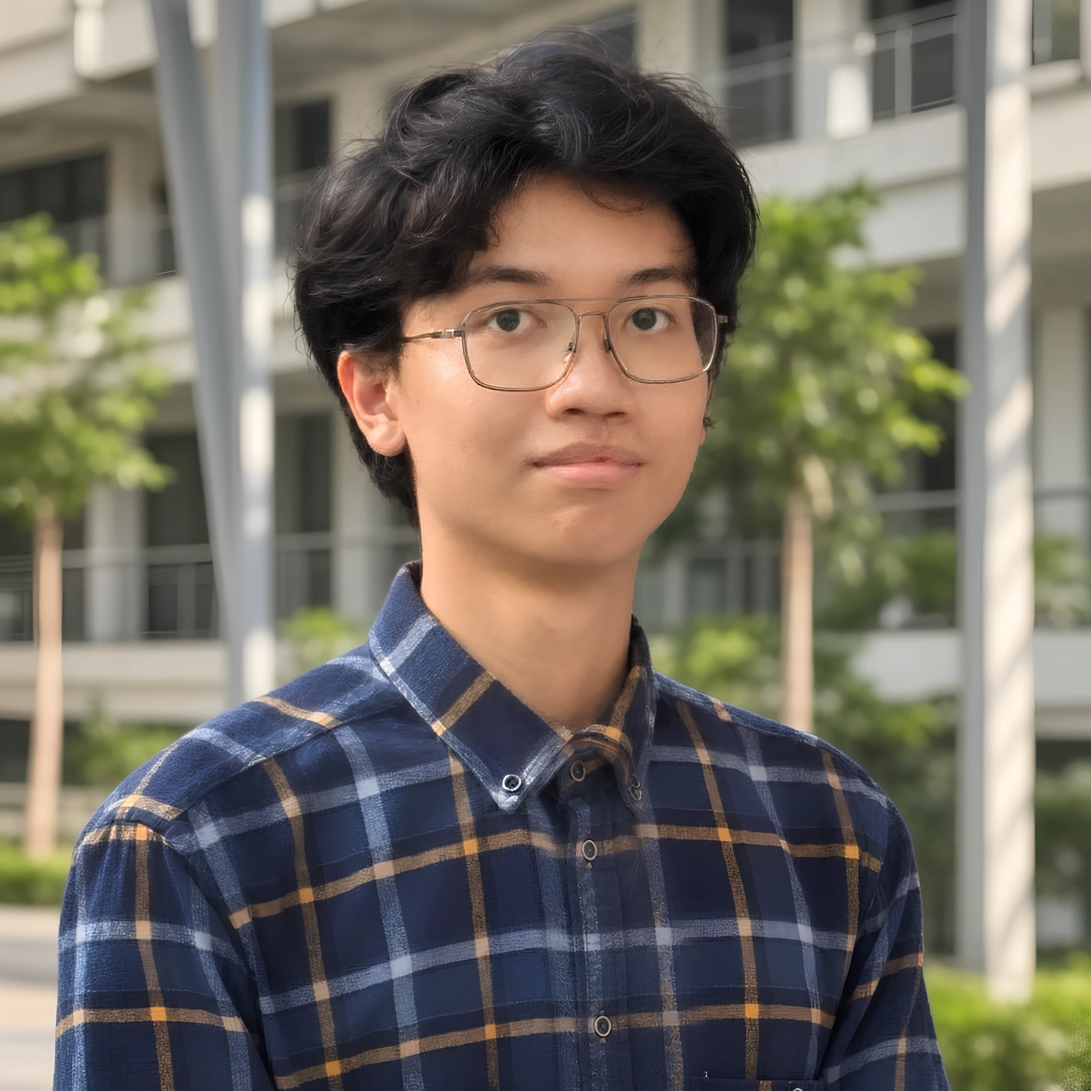
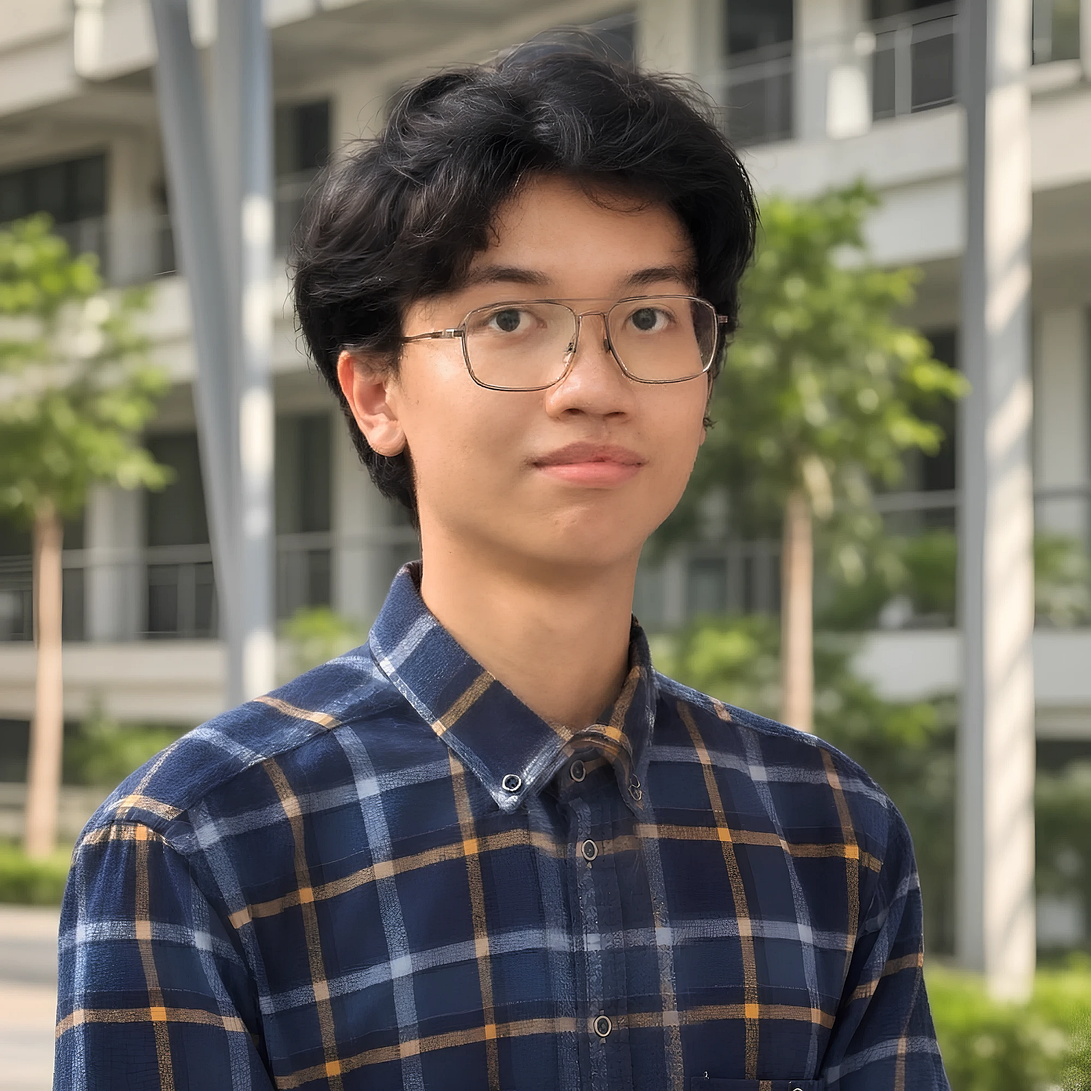
Fill in the Journey with real dates and photos, and refresh the copy
Journey now runs from the matriculation exam to the December project show,
with a cropped photo for each stop that has one. The About text, experience
dates, achievements and project details are updated; ordinals like 3rd use
a superscript suffix. Also includes a re-exported portrait.

diff --git a/lib/content.ts b/lib/content.ts
@@ -53,26 +53,27 @@ export const site = {
       caption: "UIT Impromptu Talk Competition 2026",
     } as { src: string; alt: string; width: number; height: number; caption?: string } | undefined,
     lead: "I lead team projects from design to deployment, and I run a 180+ member study community that teaches programming, computer science and math.",
-    body: "I study Computer Science at the University of Information Technology, Yangon (GPA 3.98, Outstanding Student). Besides full-stack web work, I've built hardware accessibility prototypes, and in 2026 I spent five months as an IT intern at Grand Royal Group International. Right now I'm learning machine learning, AI engineering and Java.",
+    body: "I'm a third-year Computer Science student at the University of Information Technology, Yangon, with an outstanding GPA of 3.99. Besides full-stack web work, I've made games in Godot, and since June 2026 I've been an IT intern at Grand Royal Group International, through to December. Now I'm expanding my learning towards machine learning and AI engineering.",
   },
   experience: [
     {
       title: "IT Intern, Grand Royal Group International",
-      meta: "Jun – Oct 2026",
+      meta: "Jun 2026 – present",
       note: "Built a full-stack application with senior developers and evaluated computer vision models.",
     },
     {
       title: "Founder & Peer Tutor, Learnabyte",
-      meta: "Telegram study group",
+      meta: "Jul 2026 – present · Telegram study group",
       note: "Runs a 180+ member community of UIT students and makes lecture-style videos on programming, CS and math.",
     },
   ] satisfies Entry[],
   awards: [
-    { title: "3rd Place, UIT Innovative Hackathon", meta: "UIT · 2026" },
+    // Ordinals like "3rd" are shown with a superscript suffix (components/Ordinals.tsx).
+    { title: "3rd Place, UIT Innovative Hackathon", meta: "University of Information Technology · 2026" },
     { title: "National Finalist, ASEAN Digital Awards", meta: "Myanmar Computer Federation · 2025" },
-    { title: "Prize for 2nd Highest Marks, Batch 12", meta: "UIT · First Year" },
-    { title: "Champion, Impromptu Talk Competition", meta: "UIT · 2026" },
-    { title: "Semi-finalist, ASEAN-China-India Youth Leadership Summit", meta: "OSG Youth Alliance · 2024" },
+    { title: "Prize for 2nd Highest Marks, Batch 12", meta: "University of Information Technology · First Year" },
+    { title: "Champion, Impromptu Talk Competition", meta: "University of Information Technology · 2026" },
+    { title: "National Finalist, ASEAN-China-India Youth Leadership Summit", meta: "OSG Youth Alliance · 2024" },
   ] satisfies Entry[],
   skills: [
     { label: "Languages", items: ["JavaScript", "Python", "SQL", "GDScript", "HTML/CSS"] },
@@ -86,17 +87,21 @@ export const site = {
   ],
 };
 
-// The journey timeline, oldest first.
-// TODO: confirm the dates (the ones here are placeholders) and add photos.
+// The journey timeline, oldest first. TODO: photos for the stops that don't have one yet.
 export const journey: Milestone[] = [
-  { when: "2023", title: "Started Computer Science at UIT", note: "University of Information Technology, Yangon." },
-  { when: "Early 2024", title: "Prize for 2nd highest marks", note: "Batch 12, first year at UIT." },
-  { when: "2024", title: "Built MaMa WaWa", note: "My first team project: a learning platform for kids." },
-  { when: "2024", title: "Founded Learnabyte", note: "A study community that's grown past 180 members." },
-  { when: "2024", title: "Youth Leadership Summit semi-finalist", note: "ASEAN-China-India, OSG Youth Alliance." },
-  { when: "2025", title: "ASEAN Digital Awards national finalist", note: "Myanmar Computer Federation." },
-  { when: "Early 2026", title: "3rd place, UIT Innovative Hackathon", note: "And champion of the impromptu talk contest." },
-  { when: "Jun – Oct 2026", title: "IT intern, Grand Royal Group", note: "Full-stack work and computer vision models." },
+  { when: "Jun 2024", title: "Six distinctions in the matriculation exam", note: "Grade 12, the national university entrance exam.", image: { src: "/journey/six-distinctions.webp", alt: "Thaw Thaw Tun with dozens of other top students, each holding an award, at a ceremony for outstanding matriculation results.", width: 800, height: 600 } },
+  { when: "Jun 2024", title: "Youth Leadership Summit national finalist", note: "ASEAN-China-India, OSG Youth Alliance.", image: { src: "/journey/aciyls.webp", alt: "Thaw Thaw Tun holding a microphone on stage with four teammates at the ASEAN-China-India Youth Leadership Summit 2024.", width: 800, height: 600 } },
+  { when: "Nov 2024", title: "Started Computer Science at UIT", note: "University of Information Technology, Yangon.", image: { src: "/journey/uit-first-day.webp", alt: "The UIT campus atrium under its steel-and-glass roof, with students walking past.", width: 800, height: 600 } },
+  { when: "Jul 2025", title: "Built MaMa WaWa", note: "My first team project: a learning platform for kids.", image: { src: "/journey/mama-wawa.webp", alt: "Thaw Thaw Tun presenting MaMa WaWa from a laptop, with its home page projected on the screen.", width: 800, height: 600 } },
+  { when: "Oct 2025", title: "ASEAN Digital Awards national finalist", note: "Myanmar Computer Federation.", image: { src: "/journey/asean-digital-awards.webp", alt: "The Myanmar Computer Federation letter announcing the teams selected for the ASEAN Digital Awards 2026.", width: 800, height: 600 } },
+  { when: "Jun 2026", title: "IT intern, Grand Royal Group", note: "Full-stack work and computer vision models, through December.", image: { src: "/journey/grgi.webp", alt: "The Grand Royal Group reception, with its logo above a curved wooden desk.", width: 800, height: 600 } },
+  { when: "Jul 2026", title: "Let's Tech Hackathon", note: "My first hackathon. No win this time, but a first step.", image: { src: "/journey/lets-tech.webp", alt: "Thaw Thaw Tun taking a selfie in a lift with hackathon teammates.", width: 800, height: 600 } },
+  { when: "Jul 2026", title: "3rd place, UIT Innovative Hackathon", note: "My second hackathon, the same month.", image: { src: "/journey/uit-hackathon.webp", alt: "Thaw Thaw Tun and teammates in front of the UIT Innovative Hackathon 2026 banner, holding their prize sign.", width: 800, height: 600 } },
+  { when: "Jul 2026", title: "Started Learnabyte", note: "A study community that's grown past 180 members." },
+  { when: "Aug 2026", title: "Champion, Impromptu Talk Competition", note: "Public speaking on stage at UIT.", image: { src: "/journey/impromptu.webp", alt: "Thaw Thaw Tun holding a first prize certificate with other contestants at the UIT Impromptu Talk Competition.", width: 800, height: 600 } },
+  { when: "Sep 2026", title: "Prize for 2nd highest marks", note: "Batch 12, first year at UIT.", image: { src: "/journey/second-highest-marks.webp", alt: "Thaw Thaw Tun receiving a trophy on stage at a UIT prize-giving ceremony.", width: 800, height: 600 } },
+  { when: "Nov 2026", title: "NASA Space Apps Challenge", note: "NASA's global hackathon for space and science." },
+  { when: "Dec 2026", title: "Project show", note: "Coming soon.", image: { src: "/journey/project-show.webp", alt: "Stairs and walkways inside the UIT building.", width: 800, height: 600 }, next: true },
   { when: "Next", title: "Machine learning & AI", note: "Where the thread goes next.", next: true },
 ];
 
@@ -107,9 +112,9 @@ export const projects: Project[] = [
     kind: "Web",
     pitch: "A campus platform for UIT with a 3D map, timetables and bookings.",
     description:
-      "An interactive 3D campus map with room search and shortest-path routing, plus timetables, room bookings, clubs, events and messaging. I lead the team and work on the Next.js frontend and Spring Boot API.",
+      "An interactive 3D campus map with room search and shortest-path routing, plus timetables, room bookings, clubs, events and messaging. I led the team and worked on the Next.js frontend and Spring Boot API.",
     role: "Team lead · Full-stack developer",
-    stack: ["Next.js", "shadcn/ui", "Spring Boot", "Supabase", "Three.js"],
+    stack: ["Next.js", "Spring Boot", "Supabase", "Three.js"],
     // Public backend repo. The frontend repo (YesBlueue/uit_virtual_campus_frontend) is private.
     source: "https://github.com/KaungSet178/UIT_Virtual_Campus",
     image: {
@@ -144,7 +149,7 @@ export const projects: Project[] = [
     description:
       "An assistive prototype for deaf and mute users that speaks gestures and finger-spelled words aloud, and shows live captions on the wrist. I prototyped the hardware and software, including our own 5-bit finger alphabet.",
     role: "Hardware & software prototyping",
-    stack: ["Arduino", "Raspberry Pi", "Python", "eSpeak", "Electronics"],
+    stack: ["Arduino", "Raspberry Pi", "Python", "Electronics"],
     image: {
       src: "/projects/assistive-gloves.png",
       alt: "Smart Communication Gloves poster: the title and feature tags beside a close-up photo of a black glove wired with finger sensors, and a code card mapping the gesture 11001 to the letter V.",
@@ -177,7 +182,8 @@ export const projects: Project[] = [
     pitch: "A student-support app with tutors, hostels, food and transport in one place.",
     description:
       "A mobile app for Myanmar university students that brings tutoring, housing, meals and campus transport together, with SmartMatch AI to search them. Ask it one question and it suggests school-approved options for you.",
-    // TODO: role and stack still to come.
+    role: "Full-stack developer",
+    // TODO: stack still to come.
     demo: "https://sat-thwal.vercel.app",
     // Hosted on a teammate's account; Thaw Thaw Tun is a collaborator.
     source: "https://github.com/theYE-8266-viren-Nai/sat-thwal",

diff --git a/components/Journey.tsx b/components/Journey.tsx
@@ -3,6 +3,7 @@
 import Image from "next/image";
 import { useEffect, useRef, type ReactNode } from "react";
 import type { Milestone } from "@/lib/content";
+import { Ordinals } from "./Ordinals";
 import styles from "./Journey.module.css";
 
 const GAP = 30; // how far apart the two cloths hang before they're sewn
@@ -203,7 +204,9 @@ export function Journey({ milestones, head }: { milestones: Milestone[]; head: R
                 </figure>
                 <div className={styles.text}>
                   <p className={styles.when}>{m.when}</p>
-                  <h3 className={styles.title}>{m.title}</h3>
+                  <h3 className={styles.title}>
+                    <Ordinals text={m.title} />
+                  </h3>
                   <p className={styles.note}>{m.note}</p>
                 </div>
               </article>

diff --git a/app/page.tsx b/app/page.tsx
@@ -3,6 +3,7 @@ import type { CSSProperties } from "react";
 import { CardFit } from "@/components/CardFit";
 import { CopyEmail } from "@/components/CopyEmail";
 import { Intro } from "@/components/Intro";
+import { Ordinals } from "@/components/Ordinals";
 import { Journey } from "@/components/Journey";
 import { Portrait } from "@/components/Portrait";
 import { ReKnit } from "@/components/ReKnit";
@@ -233,7 +234,9 @@ export default function Home() {
                 <ul className={styles.list}>
                   {site.awards.map((a) => (
                     <li key={a.title}>
-                      <b>{a.title}</b>
+                      <b>
+                        <Ordinals text={a.title} />
+                      </b>
                       <span>{a.meta}</span>
                     </li>
                   ))}

diff --git a/components/Ordinals.tsx b/components/Ordinals.tsx
@@ -1,0 +1,10 @@
+import { Fragment } from "react";
+
+/** Text with ordinals like "3rd" or "2nd" set properly: the suffix as a superscript. */
+export function Ordinals({ text }: { text: string }) {
+  // split() with two groups gives [text, number, suffix, text, number, suffix, ..., text].
+  const parts = text.split(/\b(\d+)(st|nd|rd|th)\b/);
+  return parts.map((part, i) =>
+    i % 3 === 2 ? <sup key={i}>{part}</sup> : <Fragment key={i}>{part}</Fragment>,
+  );
+}

diff --git a/app/globals.css b/app/globals.css
@@ -77,6 +77,14 @@ a {
   color: inherit;
 }
 
+/* Ordinal suffixes ("3rd"), without pushing the line apart. */
+sup {
+  font-size: 0.62em;
+  line-height: 0;
+  vertical-align: 0.6em;
+  margin-left: 0.04em;
+}
+
 a:focus-visible,
 button:focus-visible {
   outline: 3px solid var(--mustard);
